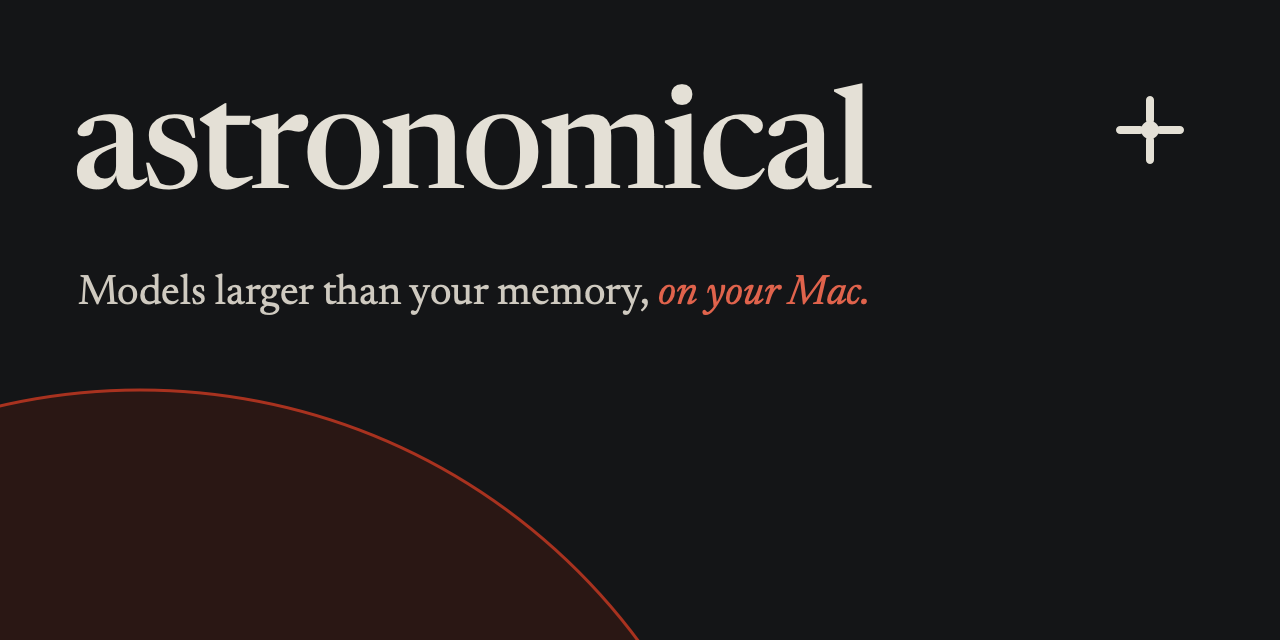
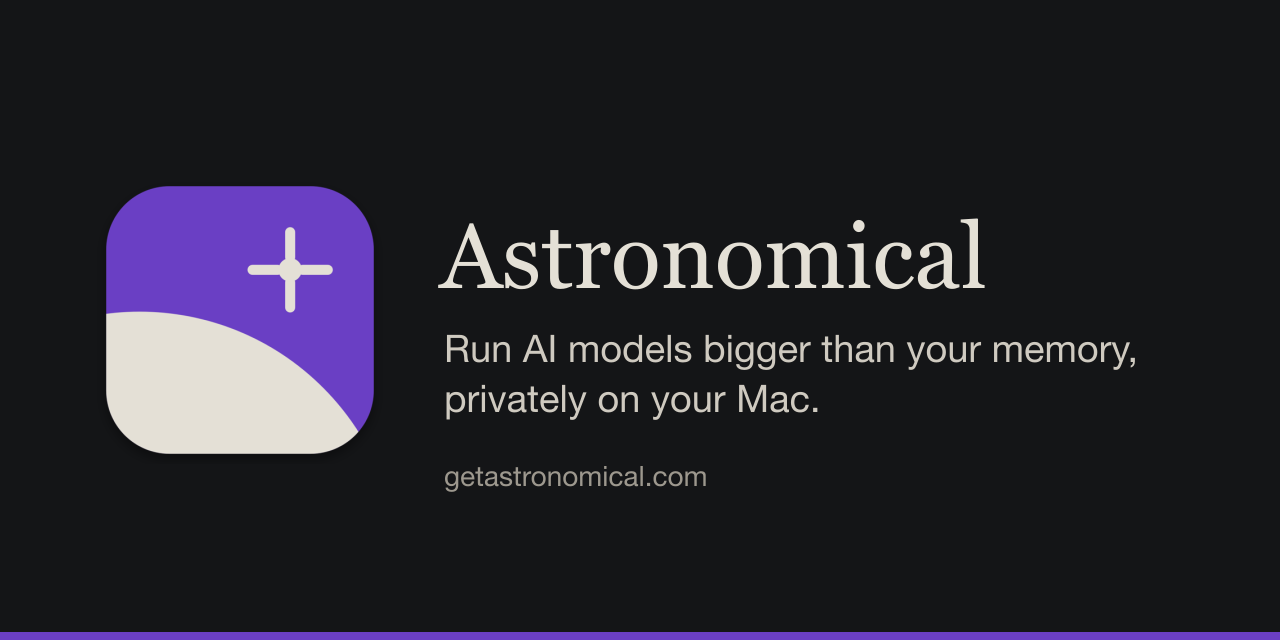
Replace the expired Discord invite and refresh the link preview image (#2179)
The invite linked from the README and every website page had expired, so
nobody could join the server through it. The links now use an invite set
to never expire, and the release procedure looks the invite up so an
expired one is caught.

The link preview image is redrawn with the current app icon and served
from the website's own domain. The configuration page now says the
$schema line must stay.

diff --git a/site/index.html b/site/index.html
@@ -10,7 +10,7 @@
     <meta property="og:title" content="Astronomical | Models larger than your memory, on your Mac">
     <meta property="og:description" content="Set one memory ceiling. Sparse experts stream from SSD when they do not fit. Declared precision is preserved. Nothing leaves the laptop.">
     <meta property="og:url" content="https://getastronomical.com/">
-    <meta property="og:image" content="https://raw.githubusercontent.com/aosama/astronomical/main/.github/assets/astronomical-social-preview.png">
+    <meta property="og:image" content="https://getastronomical.com/assets/astronomical-social-preview.png">
     <meta name="twitter:card" content="summary_large_image">
     <link rel="icon" href="./assets/favicon.svg" type="image/svg+xml">
     <link rel="apple-touch-icon" href="./assets/apple-touch-icon.png">
@@ -190,7 +190,7 @@
         <span>astronomical</span>
       </a>
       <p>Local language, vision, and image models for Apple silicon.</p>
-      <div><a href="https://github.com/aosama/astronomical">GitHub</a><a href="./local-api.html">Local API</a><a href="#reports">Field notes</a><a href="https://discord.gg/dc4E6r4WD">Discord</a></div>
+      <div><a href="https://github.com/aosama/astronomical">GitHub</a><a href="./local-api.html">Local API</a><a href="#reports">Field notes</a><a href="https://discord.gg/E8a5qmhRhr">Discord</a></div>
     </footer>
 
     <script src="./assets/release-feed.js"></script>

diff --git a/site/models.html b/site/models.html
@@ -10,6 +10,8 @@
     <meta property="og:title" content="Models you can open in Astronomical">
     <meta property="og:description" content="Chat, coding, picture and speech models that Astronomical has checked, each one click away from your Mac.">
     <meta property="og:url" content="https://getastronomical.com/models.html">
+    <meta property="og:image" content="https://getastronomical.com/assets/astronomical-social-preview.png">
+    <meta name="twitter:card" content="summary_large_image">
     <link rel="icon" href="./assets/favicon.svg" type="image/svg+xml">
     <link rel="apple-touch-icon" href="./assets/apple-touch-icon.png">
     <link rel="stylesheet" href="./styles.css">
@@ -75,7 +77,7 @@
         <span>astronomical</span>
       </a>
       <p>Local language, vision, and image models for Apple silicon.</p>
-      <div><a href="https://github.com/aosama/astronomical">GitHub</a><a href="./local-api.html">Local API</a><a href="./index.html#reports">Field notes</a><a href="https://discord.gg/dc4E6r4WD">Discord</a></div>
+      <div><a href="https://github.com/aosama/astronomical">GitHub</a><a href="./local-api.html">Local API</a><a href="./index.html#reports">Field notes</a><a href="https://discord.gg/E8a5qmhRhr">Discord</a></div>
     </footer>
 
     <script src="./assets/release-feed.js"></script>

diff --git a/site/support.html b/site/support.html
@@ -98,7 +98,7 @@
         <span>astronomical</span>
       </a>
       <p>Local language, vision, and image models for Apple silicon.</p>
-      <div><a href="https://github.com/aosama/astronomical">GitHub</a><a href="./privacy.html">Privacy</a><a href="./index.html">Home</a><a href="https://discord.gg/dc4E6r4WD">Discord</a></div>
+      <div><a href="https://github.com/aosama/astronomical">GitHub</a><a href="./privacy.html">Privacy</a><a href="./index.html">Home</a><a href="https://discord.gg/E8a5qmhRhr">Discord</a></div>
     </footer>
     <script src="./assets/release-feed.js"></script>
   </body>

diff --git a/site/local-api.html b/site/local-api.html
@@ -139,7 +139,7 @@ claude</code></pre>
         <span>astronomical</span>
       </a>
       <p>Local language, vision, and image models for Apple silicon.</p>
-      <div><a href="https://github.com/aosama/astronomical">GitHub</a><a href="./support.html">Support</a><a href="./index.html">Home</a><a href="https://discord.gg/dc4E6r4WD">Discord</a></div>
+      <div><a href="https://github.com/aosama/astronomical">GitHub</a><a href="./support.html">Support</a><a href="./index.html">Home</a><a href="https://discord.gg/E8a5qmhRhr">Discord</a></div>
     </footer>
   </body>
 </html>

diff --git a/site/privacy.html b/site/privacy.html
@@ -87,7 +87,7 @@
         <span>astronomical</span>
       </a>
       <p>Local language, vision, and image models for Apple silicon.</p>
-      <div><a href="https://github.com/aosama/astronomical">GitHub</a><a href="./support.html">Support</a><a href="./index.html">Home</a><a href="https://discord.gg/dc4E6r4WD">Discord</a></div>
+      <div><a href="https://github.com/aosama/astronomical">GitHub</a><a href="./support.html">Support</a><a href="./index.html">Home</a><a href="https://discord.gg/E8a5qmhRhr">Discord</a></div>
     </footer>
   </body>
 </html>

diff --git a/README.md b/README.md
@@ -1,6 +1,6 @@
 # Astronomical
 
-<a href="https://github.com/aosama/astronomical/releases/download/v0.2.105/Astronomical-0.2.105-macOS-arm64.dmg"><img src="site/assets/download-for-mac.svg" alt="Download for Mac" width="170" height="34" style="vertical-align:middle"></a> <a href="https://discord.gg/dc4E6r4WD"><img src="site/assets/discord.svg" alt="Discord" width="162" height="34" style="vertical-align:middle"></a>
+<a href="https://github.com/aosama/astronomical/releases/download/v0.2.105/Astronomical-0.2.105-macOS-arm64.dmg"><img src="site/assets/download-for-mac.svg" alt="Download for Mac" width="170" height="34" style="vertical-align:middle"></a> <a href="https://discord.gg/E8a5qmhRhr"><img src="site/assets/discord.svg" alt="Discord" width="162" height="34" style="vertical-align:middle"></a>
 
 **Run large AI models privately on your Mac, including models bigger than the memory you can spare.**
 
@@ -66,7 +66,7 @@ Run `astronomical --help` for the full list.
 - [Building and developing](docs/development.md): build from source and run the tests.
 - [Product story and engineering reports](https://getastronomical.com/) on the website.
 - [Measured: a 22 GB model under a 12 GB memory ceiling](https://getastronomical.com/reports/memory-ceiling-throughput/), with a short video and the limits of the measurement.
-- [Discord](https://discord.gg/dc4E6r4WD) for questions and help, and the [support page](https://getastronomical.com/support.html).
+- [Discord](https://discord.gg/E8a5qmhRhr) for questions and help, and the [support page](https://getastronomical.com/support.html).
 
 ## Contributing
 

diff --git a/.claude/skills/release-stable/SKILL.md b/.claude/skills/release-stable/SKILL.md
@@ -165,6 +165,7 @@ Require all of the following before reporting success:
 - Public Pages appcast is the exact prepared signed appcast.
 - Every public "Download for Mac" button passes the download button checklist below.
 - The `Announce release on Discord` workflow run for this release succeeded. Publishing the release starts it; it posts the notes to the Discord server's releases channel under the project's name and logo, so no release link is pasted there by hand. If it failed, run it again from the Actions tab with the tag as input.
+- The Discord invite linked from the README and the website still works. Read the invite code from the README's Discord link and look it up: `curl -s "https://discord.com/api/v10/invites/CODE?with_expiration=true"` must name the server and show `"expires_at": null`. An invite made with Discord's defaults expires after 30 days, and an expired one fails silently for every newcomer; if it has expired, the server owner creates one set to never expire and the links are updated through a pull request.
 - Release issue is explicitly closed after the appcast PR merge, Pages deployment, and public-byte verification. A `Refs #N` maintenance PR does not close it automatically.
 - Local `main` equals remote `main` and the tracked worktree is clean.
 - The ignored `target/releases/${TAG}` evidence directory remains intact.

diff --git a/docs/configuration.md b/docs/configuration.md
@@ -8,7 +8,7 @@ Astronomical keeps its settings in one file, `config.json`, in its state folder.
 
 The app creates the file the first time it starts, with a second file beside it, `astronomical-config.schema.json`, that describes every setting. Editors that understand JSON Schema use it to check your edits as you type.
 
-A small file looks like this:
+A small file looks like this. Keep the `$schema` line: the app refuses a file that states its `schema_version` without it, and does not start.
 
     {
       "$schema": "./astronomical-config.schema.json",
